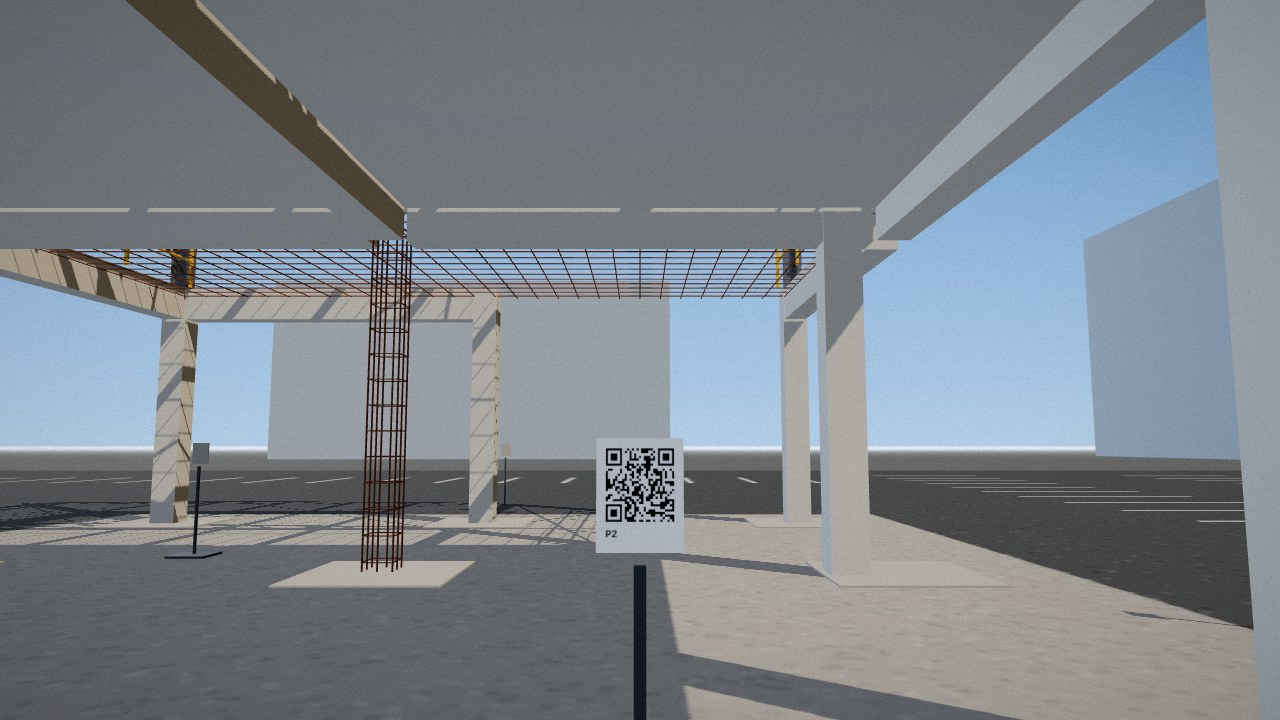
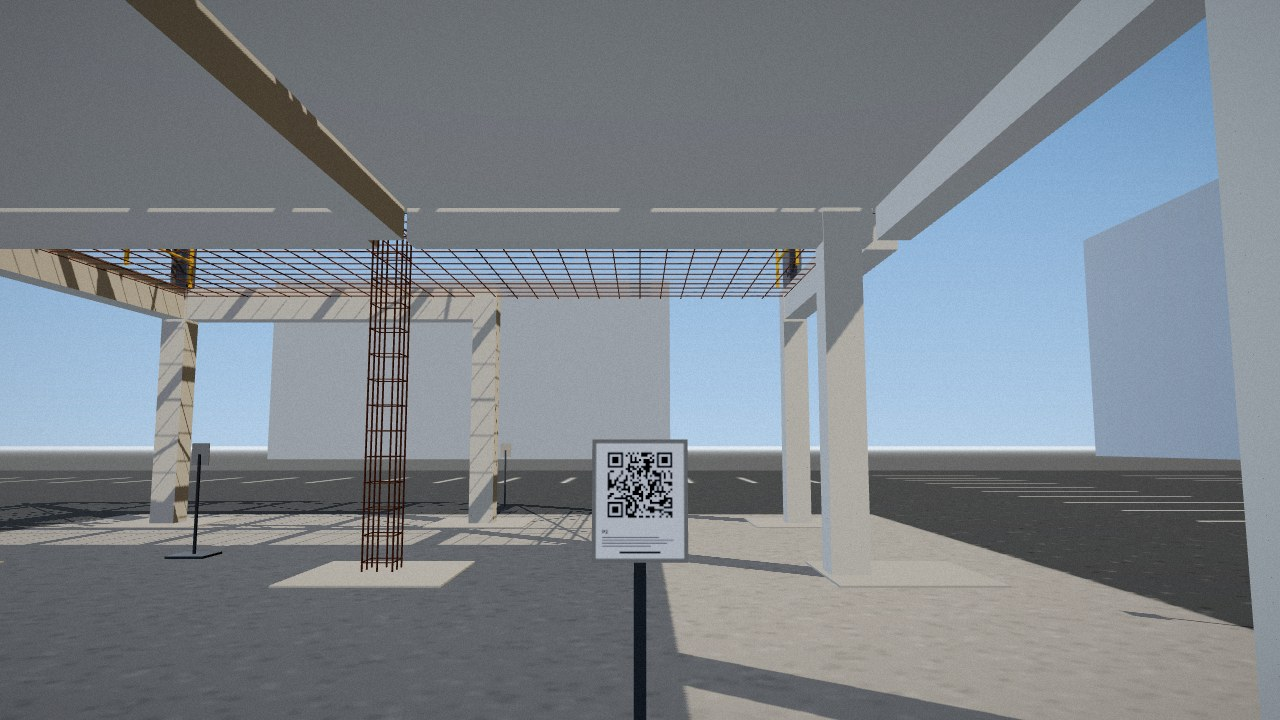
fix(web): virtual demo QR boards sit on their stands again after the Letter change
The Letter sheet is 14 cm shorter than the A3 board was, but the pole still stopped 20 cm below the code, so each board
floated 3.5 cm above its pole. qrStand() now derives the board height and the pole from the sheet: the pole runs up
behind the board to its middle. The board face follows the real life-size layout (16 cm code centred 178 mm above the
bottom edge, label, instruction lines, check bar) on a rigid board with a 1 cm edge. Sample photos re-rendered.

Changed region(s): [[0.4375, 0.6111, 0.5312, 0.7944]]

diff --git a/web/src/sim/world.ts b/web/src/sim/world.ts
@@ -137,34 +137,71 @@ function groundTexture(rand: () => number): CanvasTexture {
   return t
 }
 
-/** A QR-like pattern (finder squares and random modules) for the board: decorative, it doesn't scan. */
+/**
+ * The life-size site sheet (bim/truesite_bim/qr_sheets.py, LIFE_* layout): US Letter portrait, a 16 cm code whose
+ * centre is 178 mm above the sheet's bottom edge, in metres.
+ */
+export const SHEET_M = { w: 0.2159, h: 0.2794, code: 0.16, codeUp: 0.178 } as const
+/** The rigid board the sheet is mounted on shows this much around it. */
+const BOARD_MARGIN_M = 0.01
+const BOARD_THICK_M = 0.012
+const POLE_M = 0.03
+
+/**
+ * The stand for a code centre `codeZ` above the ground: the board's centre and height, and a pole that rises from
+ * the foot to the board's middle, behind it (so the board is held, not floating, and the pole doesn't show above it).
+ */
+export function qrStand(codeZ: number): { boardZ: number; boardH: number; poleH: number } {
+  const boardZ = codeZ - (SHEET_M.codeUp - SHEET_M.h / 2)
+  return { boardZ, boardH: SHEET_M.h + 2 * BOARD_MARGIN_M, poleH: boardZ }
+}
+
+/**
+ * The printed face: the grey board edge, the white Letter sheet, a QR-like code (finder squares and random modules)
+ * where the real sheet prints it, the viewpoint label, the instruction lines and the check bar. Decorative: it doesn't scan.
+ */
 function qrTexture(rand: () => number, label: string): CanvasTexture {
-  const n = 29
-  const cell = 12
-  const [c, g] = canvas(n * cell + 8 * cell, n * cell + 16 * cell)
-  g.fillStyle = '#ffffff'
+  const px = 3 // canvas pixels per mm
+  const mm = (v: number) => Math.round(v * px)
+  const margin = BOARD_MARGIN_M * 1000
+  const [pageW, pageH] = [SHEET_M.w * 1000, SHEET_M.h * 1000]
+  const [c, g] = canvas(mm(pageW + 2 * margin), mm(pageH + 2 * margin))
+  g.fillStyle = '#9a978f'
   g.fillRect(0, 0, c.width, c.height)
+  g.fillStyle = '#ffffff'
+  g.fillRect(mm(margin), mm(margin), mm(pageW), mm(pageH))
+  // Page coordinates in mm, measured from the sheet's top-left corner, as canvas pixels.
+  const at = (x: number, y: number, w: number, h: number) => g.fillRect(mm(margin + x), mm(margin + y), mm(w), mm(h))
+  const n = 29
+  const cell = (SHEET_M.code * 1000) / n
+  const x0 = pageW / 2 - (SHEET_M.code * 1000) / 2
+  const y0 = pageH - SHEET_M.codeUp * 1000 - (SHEET_M.code * 1000) / 2
   g.fillStyle = '#111111'
-  const x0 = 4 * cell
-  const y0 = 4 * cell
   const finder = (fx: number, fy: number) => {
-    g.fillRect(x0 + fx * cell, y0 + fy * cell, 7 * cell, 7 * cell)
+    at(x0 + fx * cell, y0 + fy * cell, 7 * cell, 7 * cell)
     g.fillStyle = '#ffffff'
-    g.fillRect(x0 + (fx + 1) * cell, y0 + (fy + 1) * cell, 5 * cell, 5 * cell)
+    at(x0 + (fx + 1) * cell, y0 + (fy + 1) * cell, 5 * cell, 5 * cell)
     g.fillStyle = '#111111'
-    g.fillRect(x0 + (fx + 2) * cell, y0 + (fy + 2) * cell, 3 * cell, 3 * cell)
+    at(x0 + (fx + 2) * cell, y0 + (fy + 2) * cell, 3 * cell, 3 * cell)
   }
   for (let i = 0; i < n; i++) {
     for (let j = 0; j < n; j++) {
       const inFinder = (i < 8 && j < 8) || (i >= n - 8 && j < 8) || (i < 8 && j >= n - 8)
-      if (!inFinder && rand() < 0.5) g.fillRect(x0 + i * cell, y0 + j * cell, cell, cell)
+      if (!inFinder && rand() < 0.5) at(x0 + i * cell, y0 + j * cell, cell, cell)
     }
   }
   finder(0, 0)
   finder(n - 7, 0)
   finder(0, n - 7)
-  g.font = `bold ${cell * 4}px system-ui, sans-serif`
-  g.fillText(label, x0, y0 + (n + 6) * cell)
+  // The instruction block (LIFE_TEXT_BOX_MM: 15 mm from the left, its top 70 mm above the bottom edge) and the check bar.
+  const textTop = pageH - 70
+  g.font = `bold ${mm(12)}px system-ui, sans-serif`
+  g.textBaseline = 'top'
+  g.fillText(label, mm(margin + 15), mm(margin + textTop))
+  g.fillStyle = '#8a8a8a'
+  for (const [i, w] of [140, 175, 160, 120].entries()) at(15, textTop + 18 + i * 7, w, 2.5)
+  g.fillStyle = '#111111'
+  at(57.95, pageH - 12 - 5, 100, 5)
   const t = texture(c)
   t.magFilter = NearestFilter
   t.center.set(0.5, 0.5)
@@ -172,22 +209,24 @@ function qrTexture(rand: () => number, label: string): CanvasTexture {
   return t
 }
 
-/** The upright US Letter board on its stand at an anchor: printed face towards anchor.normal, code centre at the anchor. */
+/** The upright Letter sheet on its board and stand at an anchor: printed face towards anchor.normal, code centre at the anchor. */
 function qrBoard(anchor: Anchor, rand: () => number): Group {
   const g = new Group()
   const [nx, ny] = anchor.normal
   const [x, y, z] = anchor.position_m
-  const board = new Mesh(new BoxGeometry(0.2159, 0.012, 0.2794), [
+  const { boardZ, boardH, poleH } = qrStand(z)
+  const board = new Mesh(new BoxGeometry(SHEET_M.w + 2 * BOARD_MARGIN_M, BOARD_THICK_M, boardH), [
     MAT.footing, MAT.footing, new MeshStandardMaterial({ map: qrTexture(rand, anchor.anchor_id), roughness: 0.8 }), MAT.footing,
     MAT.footing, MAT.footing,
   ])
   // BoxGeometry faces: +x, -x, +y, -y, +z, -z. Turn the box so its +y face looks along the normal.
   board.rotation.z = Math.atan2(ny, nx) - Math.PI / 2
-  board.position.set(x, y, z - 0.025) // the code sits in the board's upper part (about 9% of its height above the middle)
-  const pole = new Mesh(new BoxGeometry(0.03, 0.03, z - 0.2), MAT.brace)
-  pole.position.set(x - 0.02 * nx, y - 0.02 * ny, (z - 0.2) / 2)
+  board.position.set(x, y, boardZ)
+  const back = (BOARD_THICK_M + POLE_M) / 2 // the pole touches the board's back
+  const pole = new Mesh(new BoxGeometry(POLE_M, POLE_M, poleH), MAT.brace)
+  pole.position.set(x - back * nx, y - back * ny, poleH / 2)
   const foot = new Mesh(new BoxGeometry(0.5, 0.5, 0.03), MAT.brace)
-  foot.position.set(x - 0.02 * nx, y - 0.02 * ny, 0.015)
+  foot.position.set(x - back * nx, y - back * ny, 0.015)
   for (const m of [board, pole, foot]) {
     m.castShadow = true
     m.receiveShadow = true

diff --git a/web/src/sim/world.test.ts b/web/src/sim/world.test.ts
@@ -1,0 +1,20 @@
+import { describe, expect, it } from 'vitest'
+import { qrStand, SHEET_M } from './world'
+
+describe('qrStand', () => {
+  it('holds the printed code centre at the anchor height, as the life-size Letter layout prints it', () => {
+    const s = qrStand(1.4)
+    // qr_sheets.py LIFE_QR_CENTRE_MM: the code centre is 178 mm above the sheet's bottom edge.
+    expect(s.boardZ - SHEET_M.h / 2 + SHEET_M.codeUp).toBeCloseTo(1.4, 6)
+    expect(SHEET_M).toMatchObject({ w: 0.2159, h: 0.2794, code: 0.16, codeUp: 0.178 })
+  })
+
+  it('runs the pole up behind the board, so the board never floats above it', () => {
+    for (const z of [1.3, 1.4]) {
+      const s = qrStand(z)
+      const boardBottom = s.boardZ - s.boardH / 2
+      expect(s.poleH).toBeGreaterThan(boardBottom + 0.05) // well into the board, hidden behind it
+      expect(s.poleH).toBeLessThan(s.boardZ + s.boardH / 2) // and not sticking out over its top
+    }
+  })
+})

diff --git a/web/src/scene/fusion.ts b/web/src/scene/fusion.ts
@@ -1,7 +1,7 @@
 /**
  * Sensor fusion for the camera overlay: the QR code says where the code is, the motion sensors say how the device is
  * turned. A tilt or heading error of 1° in one QR pose swings the far end of a 10 m building by about 20 cm, and the
- * QR pose of a 23 cm code wobbles by a degree or more from frame to frame; the sensors' rotation is smooth.
+ * QR pose of a 16 cm code wobbles by a degree or more from frame to frame; the sensors' rotation is smooth.
  *
  * Each detection gives, with D the device -> world rotation at that frame's capture time (motion.ts frames):
  *   - the code's orientation in the world, R_wm = D C R_cm. The code doesn't move, so this is a weighted running
